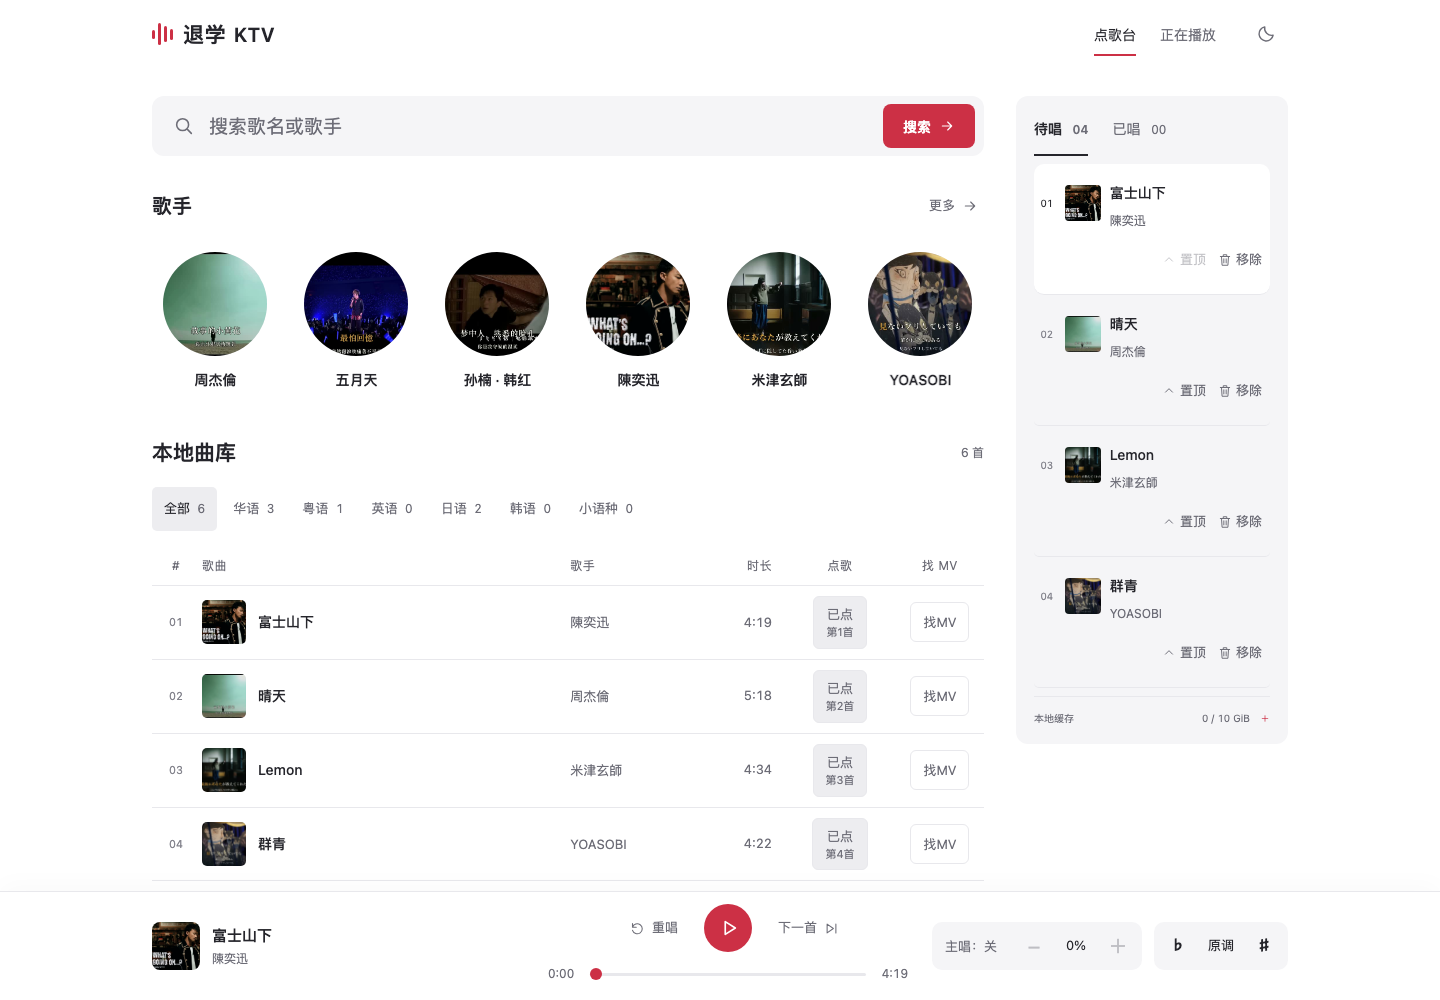
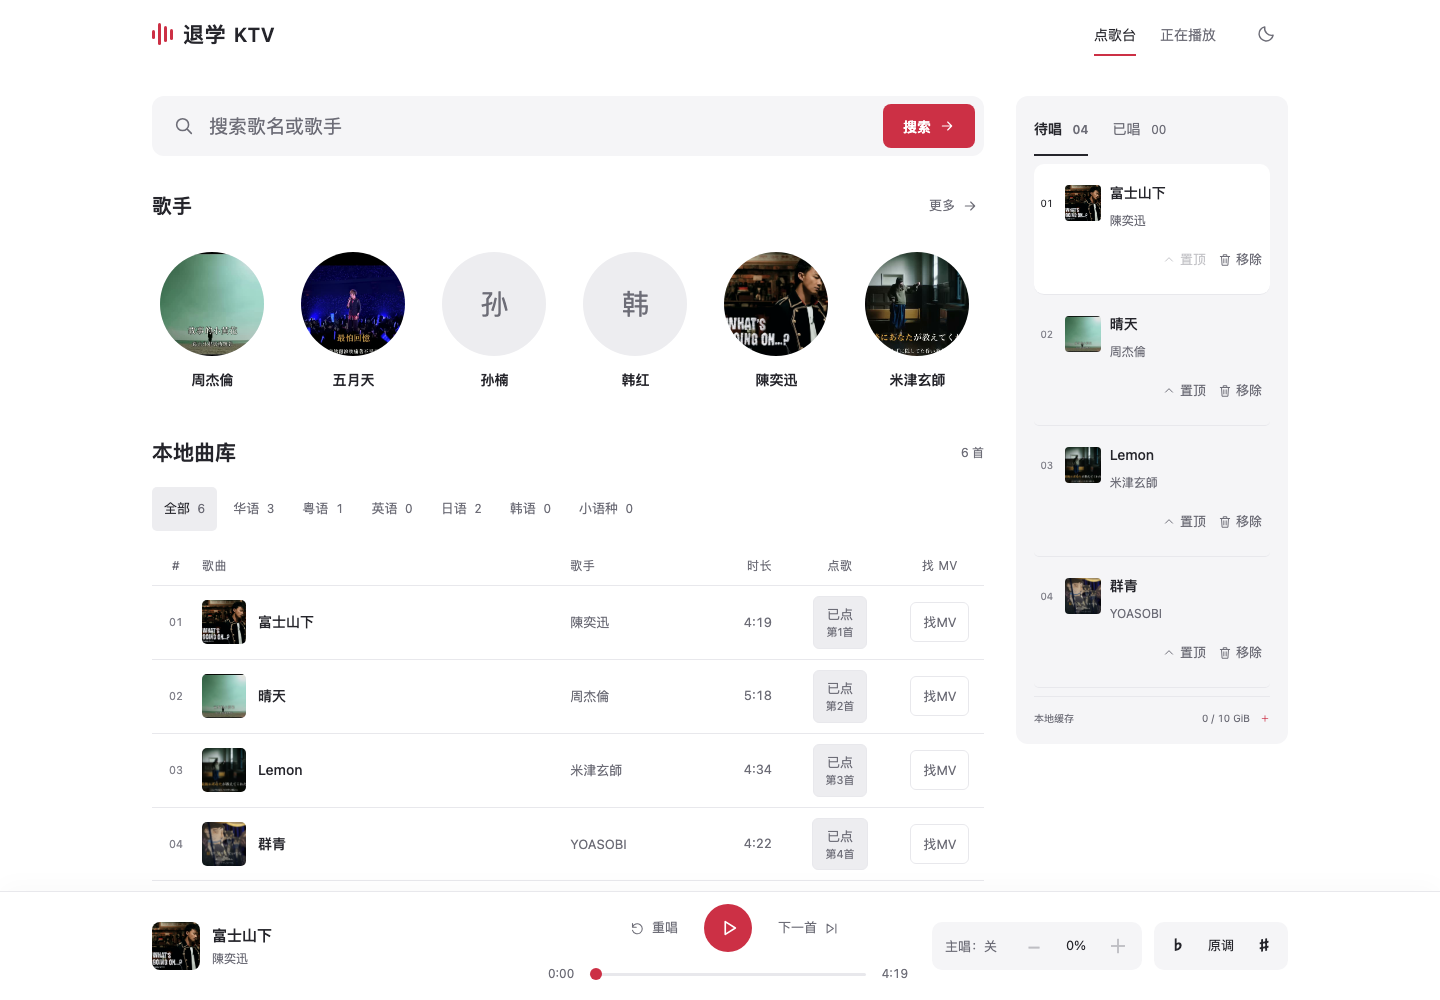
Keep individual artist identities in library discovery

Changed region(s): [[0.125, 0.248, 0.6875, 0.403]]

diff --git a/karaoke/web/app.js b/karaoke/web/app.js
@@ -1,7 +1,7 @@
 import { Player } from './player.js';
 import { mountPreview } from './preview.js';
 import { isStaleRoomSnapshot, LocalPlayback, PlaybackTabs, RoomEvents, queueToTop, queueTopCandidates, preparationRetry } from './room-state.js';
-import { createVideoSearch, createViewHistory, previewURL, searchLibrary, artistLibrarySongs, librarySongs, libraryArtists, paginateSongs, filterSongs, playCount, orderResults, queueKey, queuePosition, queuePositions, historySuggestions, lyricLabel } from './search.js';
+import { createVideoSearch, createViewHistory, previewURL, searchLibrary, artistLibrarySongs, librarySongs, libraryArtists, songArtists, paginateSongs, filterSongs, playCount, orderResults, queueKey, queuePosition, queuePositions, historySuggestions, lyricLabel } from './search.js';
 
 const $ = id => document.getElementById(id);
 const icon = name => `<svg class="icon" aria-hidden="true"><use href="#i-${name}"/></svg>`;
@@ -314,8 +314,9 @@ function songRow(song, index, {artists = false, videos = false, local = false, i
   const tag = playable || catalogueAction ? 'button' : 'a';
   const action = playable ? `<button class="music-add" ${inLibrary ? `data-song="${escape(song.id)}"` : `data-add-video="${index}"`} aria-label="点歌：${escape(song.title)}">${icon('plus')}<span>点歌</span></button>` :
     `<${tag} class="music-add" ${open}>${song.kind === 'album' ? '查看专辑' : catalogueAction ? '查看歌曲' : '打开'} ${icon('arrow')}</${tag}>`;
-  const credits = song.artists?.length ? song.artists.map(a => a.id ? `<button data-artist-id="${escape(a.id)}" data-artist-name="${escape(a.name)}">${escape(a.name)}</button>` : escape(a.name)).join(' · ') : local && song.uploader ? `<button data-search-artist="${escape(song.uploader)}">${escape(song.uploader)}</button>` : escape(song.uploader || '—');
-  const artistText = escape(song.artists?.map(a => a.name).join(' · ') || song.uploader || '—');
+  const performers = local ? songArtists(song) : song.artists || [];
+  const credits = performers.length ? performers.map(a => local ? `<button data-search-artist="${escape(a.name)}">${escape(a.name)}</button>` : a.id ? `<button data-artist-id="${escape(a.id)}" data-artist-name="${escape(a.name)}">${escape(a.name)}</button>` : escape(a.name)).join(' · ') : escape(song.uploader || '—');
+  const artistText = escape(performers.map(a => a.name).join(' · ') || song.uploader || '—');
   const plays = playCount(song.views) === null ? null : formatPlays(song.views);
   const kind = song.kind === 'album' ? '专辑' : song.kind === 'artist' ? '歌手' : song.version || '';
   const status = inLibrary && song.status === 'failed' ? '<span class="library-status is-failed">准备失败</span>' : '';
@@ -325,7 +326,7 @@ function songRow(song, index, {artists = false, videos = false, local = false, i
   return `<article class="music-row" ${inLibrary ? `data-card="${escape(song.id)}"` : `data-result="${index}"`} role="row"><span class="music-rank" role="cell">${String(index+1).padStart(2,'0')}</span>
     <div class="music-song" role="cell"><${tag} class="music-cover" ${open} aria-label="${playable ? '预览' : '打开'}：${escape(song.title)}">${thumbnail}<span>${icon(playable ? 'play' : 'arrow')}</span></${tag}>
       <div class="music-title"><h3><${tag} ${open} title="${escape(song.title)}"><span class="music-name">${escape(song.title)}</span><span class="music-compact-artist"><span>${artistText}</span>${kind ? `<small>${escape(kind)}</small>` : ''}${plays !== null && !local ? `<span class="music-compact-plays" aria-label="播放量 ${plays}">${plays}次</span>` : ''}${song.duration ? `<span class="music-compact-duration" aria-label="时长 ${time(song.duration)}">${time(song.duration)}</span>` : ''}</span></${tag}></h3>${meta}${inLibrary && song.status === 'running' ? `<div class="preparation-slot">${preparationHTML(song)}</div>` : ''}</div></div>
-    <div class="music-credits" role="cell" title="${escape(song.artists?.map(a => a.name).join(' · ') || song.uploader || '')}">${inLibrary ? `<div class="song-info-row">${credits}${preparationElapsedHTML(song)}</div>` : credits}</div>
+    <div class="music-credits" role="cell" title="${artistText}">${inLibrary ? `<div class="song-info-row"><span class="song-credits">${credits}</span>${preparationElapsedHTML(song)}</div>` : credits}</div>
     <div class="music-album" role="cell" title="${escape(song.album || '')}">${escape(song.album || '—')}</div>
     <div class="music-facts"><div class="music-plays${plays === null ? ' is-empty' : ''}" role="cell">${plays !== null ? `${plays}<small>播放</small>` : '—'}</div>
     <div class="music-duration${!song.duration ? ' is-empty' : ''}" role="cell">${song.duration ? time(song.duration) : '—'}</div></div>

diff --git a/karaoke/web/style.css b/karaoke/web/style.css
@@ -66,7 +66,7 @@ html{scroll-padding-top:calc(var(--header-height,80px) + 20px)}
 .navigation{display:flex;align-items:center;justify-content:flex-end;gap:24px;white-space:nowrap}.navigation button{position:relative;min-height:44px;padding:0;font-size:13px;color:var(--muted)}.navigation .selected{color:var(--text)}.navigation .selected:after{content:"";position:absolute;bottom:0;left:0;right:0;height:2px;background:var(--gold)}
 .search-form{position:sticky;top:var(--header-height,68px);z-index:4;min-width:0;width:100%;margin:0 0 24px;background:var(--bg)}.topbar>.connection{display:none}.search-box{display:flex;align-items:center;gap:12px;min-height:60px;padding:6px 8px 6px 20px;border:1px solid transparent;border-radius:12px;background:var(--panel)}.search-box:focus-within{border-color:var(--focus)}.search-box>.icon{width:22px;height:22px;color:var(--muted)}.search-box input{width:100%;height:46px;font-size:19px}.search-box input::placeholder{color:var(--muted)}.search-box>button{display:flex;align-items:center;justify-content:center;gap:8px;flex-shrink:0;min-height:44px;padding:8px 20px;border-radius:8px;font-size:14px;font-weight:600;color:var(--on-accent);background:var(--accent-fill)}.search-box>button:hover:not(:disabled){background:var(--accent-hover)}.search-box>button .icon{width:16px;height:16px}.optional-title{display:flex;align-items:center;gap:12px;margin-top:8px;color:var(--muted);font-size:12px}.optional-title input{flex:1;padding:6px;border-bottom:1px solid var(--line)}
 .workspace{display:grid;grid-template-columns:minmax(0,1fr) 320px;gap:36px;max-width:1640px;margin:auto;padding:28px 32px calc(var(--transport-height,116px) + 32px)}.main-panel{min-width:0}#local-library{container-type:inline-size}.section-heading{display:flex;align-items:center;justify-content:space-between;gap:12px;margin-bottom:18px}#local-library h1,.section-heading h2{font-size:18px;font-weight:550;letter-spacing:0}.section-heading>span{color:var(--muted);font-size:12px}.filters{display:flex;align-items:center;flex-wrap:wrap;gap:4px;margin-bottom:16px}.filters button{min-height:36px;padding:6px 12px;border:0;border-radius:5px;color:var(--muted);font-size:12px}.filters button:hover{color:var(--text);background:var(--panel)}.filters .selected{color:var(--text);background:var(--panel-raised)}
-.home-list,.local-list{--result-columns:24px minmax(0,2.4fr) minmax(0,1fr) 40px 108px 64px;--result-areas:"rank song credits duration actions alternative"}.home-list .music-album,.home-list .music-plays{display:none}.music-credits .song-info-row{margin:0;gap:6px}.music-credits .song-info-row>button{min-width:0;overflow:hidden;text-overflow:ellipsis;white-space:nowrap}.music-title .preparation{margin-top:4px}.search-empty{padding:50px 20px;text-align:center}.search-empty h3{font-size:18px;font-weight:500}.search-empty p{margin-top:8px;color:var(--muted);font-size:13px}
+.home-list,.local-list{--result-columns:24px minmax(0,2.4fr) minmax(0,1fr) 40px 108px 64px;--result-areas:"rank song credits duration actions alternative"}.home-list .music-album,.home-list .music-plays{display:none}.music-credits .song-info-row{margin:0;gap:6px}.music-credits .song-info-row>.song-credits{min-width:0;overflow:hidden;text-overflow:ellipsis;white-space:nowrap}.music-title .preparation{margin-top:4px}.search-empty{padding:50px 20px;text-align:center}.search-empty h3{font-size:18px;font-weight:500}.search-empty p{margin-top:8px;color:var(--muted);font-size:13px}
 /* Artist choices use the ready library and existing cover art. */
 .home-discovery{margin:28px 0 36px}.home-discovery .section-heading{margin-bottom:16px}.home-discovery h2{font-size:20px;font-weight:650}.home-discovery .text-button{min-height:44px;margin:0;font-size:13px}.home-artists{display:grid;grid-auto-flow:column;grid-auto-columns:calc((100% - 100px)/6);gap:20px;overflow-x:auto;padding:4px 3px 10px;scroll-snap-type:x proximity;scrollbar-width:thin}.home-artist{scroll-snap-align:start;display:flex;flex-direction:column;align-items:center;gap:5px;min-width:0;padding:4px 0;text-align:center;border-radius:8px}.home-artist>img,.artist-initial{display:grid;place-items:center;width:min(104px,100%);aspect-ratio:1;object-fit:cover;border-radius:50%;background:var(--panel-raised);color:var(--muted);font-size:28px;margin-bottom:8px}.home-artist strong{max-width:100%;font-size:14px;font-weight:550;line-height:1.6;overflow:hidden;text-overflow:ellipsis;white-space:nowrap}.home-artist:hover strong{color:var(--gold)}
 /* A compact queue, with secondary actions always available. */

diff --git a/karaoke/web/search.js b/karaoke/web/search.js
@@ -221,17 +221,33 @@ export function historySuggestions(history) {
   return {recent:[...recent.values()]};
 }
 
+function artistKey(name) {
+  return name.normalize('NFKC').trim().replace(/\s+/g, ' ').toLocaleLowerCase();
+}
+
+export function songArtists(song) {
+  // Only the display separator we use is splittable; punctuation can be part of a name.
+  const credits = song.artists?.length ? song.artists : (song.artist || '').split(/\s+·\s+/).map(name => ({name}));
+  const unique = new Map();
+  for (const credit of credits) {
+    const name = credit.name.trim().replace(/\s+/g, ' '), key = artistKey(name);
+    if (name && !unique.has(key)) unique.set(key, {...credit, name});
+  }
+  return [...unique.values()];
+}
+
 export function libraryArtists(library) {
   const artists = new Map();
   for (const song of librarySongs(library)) {
-    const name = (song.artist || '').trim().replace(/\s+/g, ' ');
-    if (!name) continue;
-    const key = name.normalize('NFKC').toLocaleLowerCase();
-    if (!artists.has(key)) artists.set(key, {name, poster:song.poster, count:0, languages:new Set()});
-    const artist = artists.get(key);
-    artist.count++;
-    artist.poster ||= song.poster;
-    artist.languages.add(song.language);
+    const credits = songArtists(song);
+    for (const {name} of credits) {
+      const key = artistKey(name);
+      if (!artists.has(key)) artists.set(key, {name, count:0, languages:new Set()});
+      const artist = artists.get(key);
+      artist.count++;
+      if (credits.length === 1) artist.poster ||= song.poster;
+      artist.languages.add(song.language);
+    }
   }
   const ranked = [...artists.values()].sort((a,b) => b.count-a.count);
   const selected = new Set();
@@ -249,11 +265,17 @@ export function searchLibrary(library, query) {
 
 export function artistLibrarySongs(library, name, catalogue = []) {
   const ready = librarySongs(library);
-  const sources = new Set(catalogue.map(queueKey).filter(Boolean));
-  const matches = new Set(name ? filterSongs(ready, name, ['artist']) : []);
-  for (const song of ready) if (sources.has(queueKey(song))) matches.add(song);
-  const credits = new Set([...matches].map(song => song.artist).filter(Boolean));
-  return ready.filter(song => matches.has(song) || credits.has(song.artist));
+  const sources = new Map(catalogue.map(song => [queueKey(song), song]).filter(([key]) => key));
+  const selected = artistKey(name), aliases = new Set([selected]);
+  for (const song of ready) {
+    const source = sources.get(queueKey(song));
+    if (!source) continue;
+    const local = songArtists(song), remote = songArtists(source);
+    // A shared duet does not establish which local credit names the selected artist.
+    if (local.length === 1 && remote.length === 1 && artistKey(remote[0].name) === selected)
+      aliases.add(artistKey(local[0].name));
+  }
+  return ready.filter(song => sources.has(queueKey(song)) || songArtists(song).some(artist => aliases.has(artistKey(artist.name))));
 }
 
 export function librarySongs(library, filter = 'all', query = '') {

diff --git a/docs/images/README.md b/docs/images/README.md
@@ -2,6 +2,8 @@
 
 本目录保存点歌、搜索、待唱列表和字幕播放的六张实际截图，拍摄于隔离的本地演示环境。
 
+歌手栏按独立署名提供入口，合唱参与者分别显示；圆形图片取自该歌手独立署名的歌曲封面，没有这类封面时显示姓名字标。
+
 ## 字幕功能
 
 粤语歌词带粤语拼音，日文歌词的汉字带平假名注音，显示在对应文字上方。读音在字幕视频准备阶段生成。全屏与正在播放截图展示陈奕迅《富士山下》的粤拼、当前句高亮和下一句预读。
